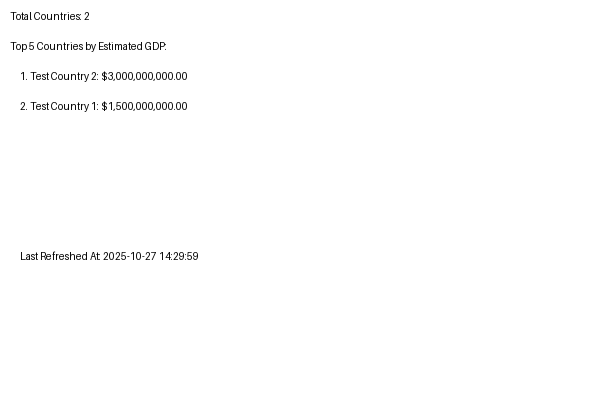
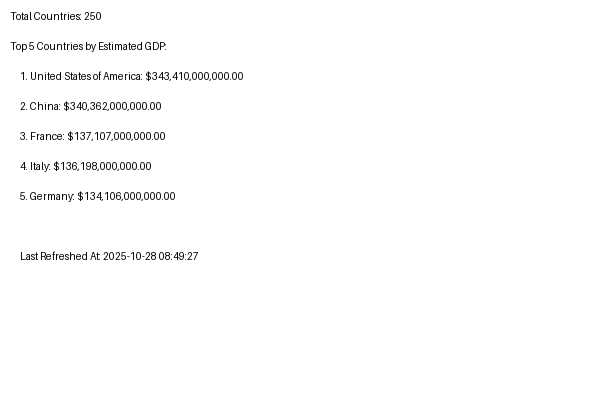
ready for deploy 6

diff --git a/main.py b/main.py
@@ -20,6 +20,7 @@ app = FastAPI()
 logging.basicConfig(level=logging.INFO)
 logger = logging.getLogger(__name__)
 
+Base.metadata.drop_all(bind=engine)
 Base.metadata.create_all(bind=engine)
 
 COUNTRIES_API = os.getenv("COUNTRIES_API")
@@ -58,7 +59,7 @@ def generate_summary_image(db: Session):
     try:
 
         total_countries = db.query(Country).count()
-        top_countries = db.query(Country).order_by(Country.estimated_gdp.desc()).limit(5).all()
+        top_countries = db.query(Country).filter(Country.estimated_gdp.isnot(None)).order_by(Country.estimated_gdp.desc()).limit(5).all()
         last_refreshed = db.query(Country).order_by(Country.last_refreshed_at.desc()).first()
 
         image = Image.new('RGB', (600, 400), color='white')#this is like my background
@@ -175,6 +176,7 @@ def fetch_countries(db: Session = Depends(get_db)):
         
         try:
             db.query(Country).delete()
+            db.commit()
             if countries_to_add:
                 db.bulk_insert_mappings(Country, countries_to_add)
             db.commit()
@@ -229,13 +231,13 @@ def get_countries(region: Optional[str] = None, currency: Optional[str] = None, 
             query = query.filter(Country.currency_code.ilike(f"%{currency}%"))
         if sort == "population_asc":
             query = query.order_by(Country.population.asc())
-        elif sort == "population_desc":
+        if sort == "population_desc":
             query = query.order_by(Country.population.desc())
-        elif sort == "gdp_asc":
-            query = query.order_by(Country.estimated_gdp.asc().nulls_last())
-        elif sort == "gdp_desc":
-            query = query.order_by(Country.estimated_gdp.desc().nulls_last())
-        elif sort == "name_desc":
+        if sort == "gdp_asc":
+            query = query.order_by(Country.estimated_gdp.nulls_last().asc())
+        if sort == "gdp_desc":
+            query = query.order_by(Country.estimated_gdp.nulls_last().desc())
+        if sort == "name_desc":
             query = query.order_by(Country.name.desc())
         else:
             query = query.order_by(Country.name.asc())
